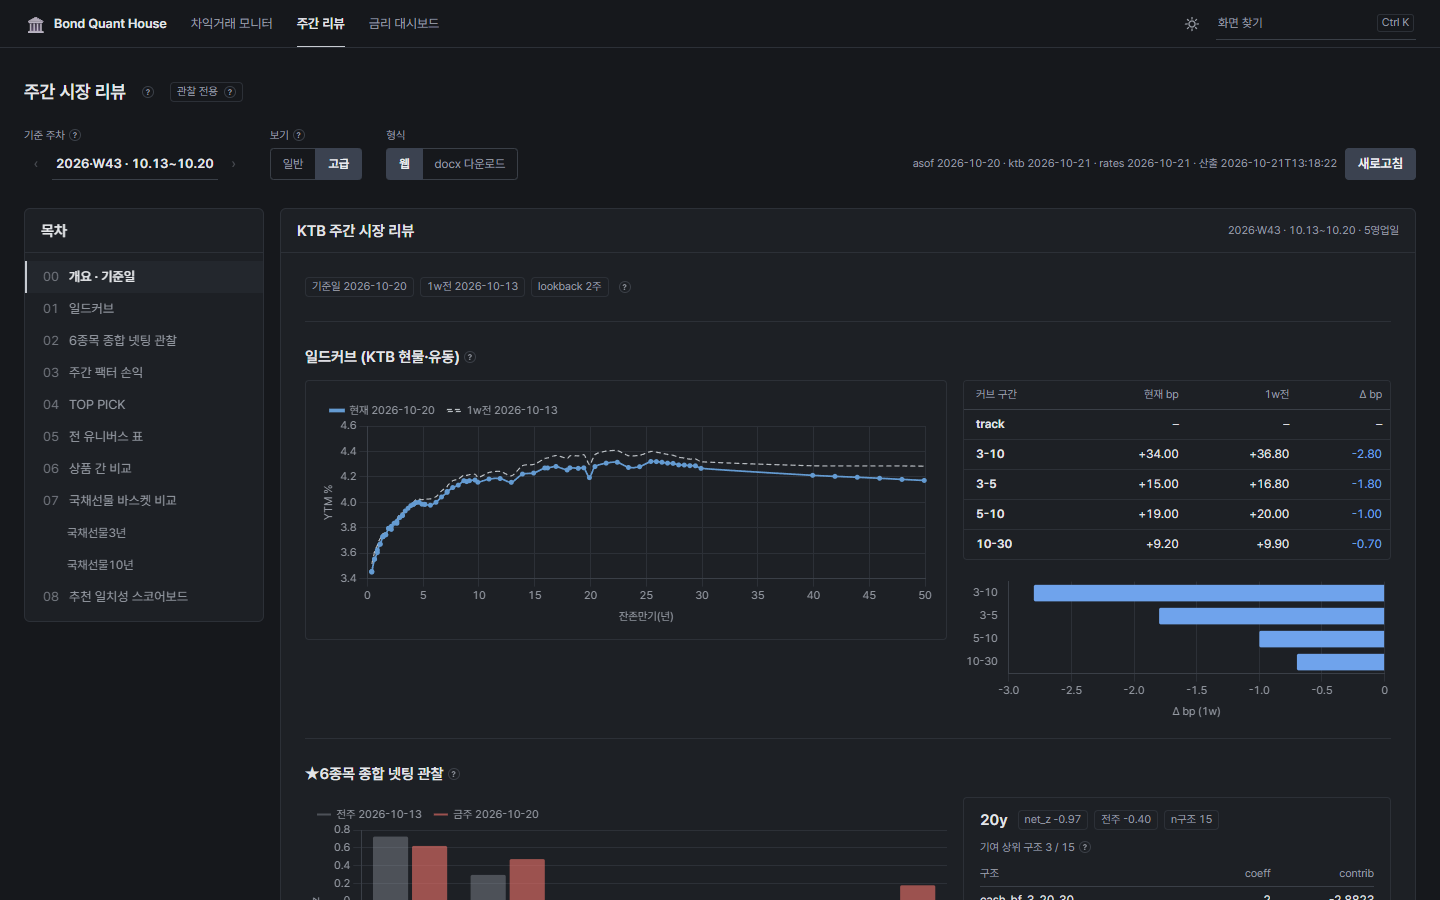
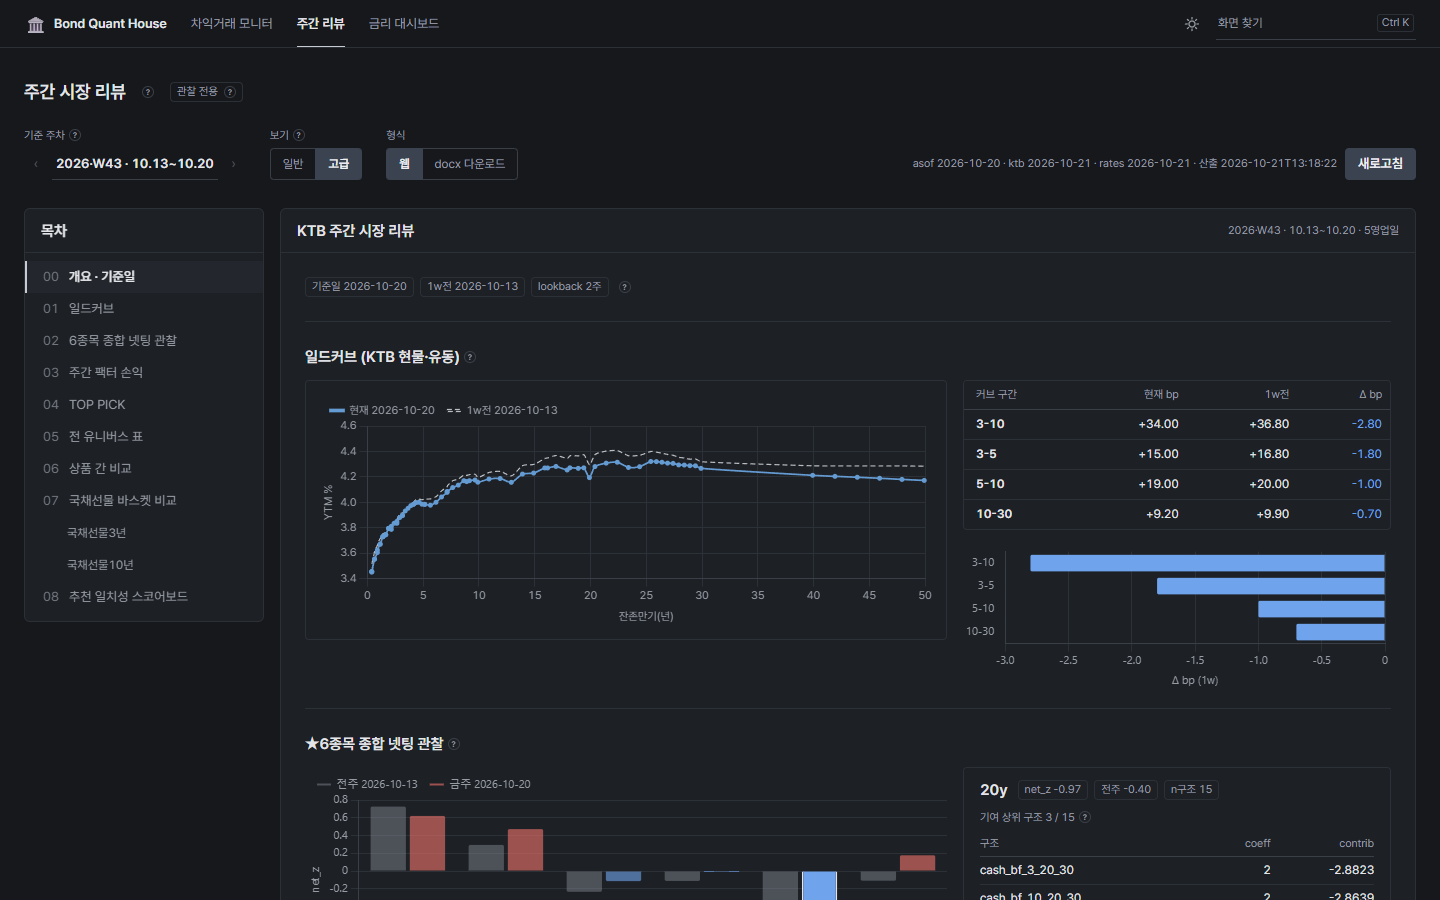
redesign-wb 4단계 보완: plain 없으면 고급 폴백(기억값 무접촉) · 고급 일드커브 표 'track' 메타 행 제거
배포 승인 조건(사용자 10-21 "수선 끝나면 배포해 (아침 자동 갱신 기다리자)") — 라이브 snapshot 은 내일 아침
daily-refresh 6c 에서 plain 이 실림. 그 전에 웹이 나가도 첫 화면이 '준비 중'이 되지 않게.

- 일반 보기 재료(plain + schema)가 없고 · 이번 세션에 사용자가 보기를 직접 고르지 않았고 · 링크가 #review/plain 이
  아니면 → 고급으로 연다. localStorage 기억값은 읽기만(덮어쓰기 0) → plain 이 실리는 로드부터 원래대로
  (기억값 또는 기본 일반) · 같은 세션 새로고침으로 plain 이 실려도 자동 복귀. 일반 버튼은 살아 있음(누르면 '준비 중').
- 고급 일드커브 표: curve_moves 의 객체(커브 구간)만 행으로 — 메타 키 track('label')이 'track – – –' 행으로
  나오던 기존 문제 제거(엔진 키 무변경).
- 검증 80/80(+C0·X1~X6·B8) · 카나리아 20종 · 캡처 plain_fallback_noplain_adv_dark_1440.png 추가 ·
  plain_empty_noplain(일반 버튼 누른 상태)·adv_dark_1440 재촬영.

diff --git a/assets/js/wb-review-plain.js b/assets/js/wb-review-plain.js
@@ -24,7 +24,8 @@
   var PLAIN_SCHEMA_MAX = 2;
   var VIEWS = { plain: 1, adv: 1 };
   var charts = [];
-  var S = { snap: null, sb: null, view: null, scatter: null, bondPts: [], bondSel: null, curveSel: 0, tenorSel: -1 };
+  var S = { snap: null, sb: null, view: null, scatter: null, bondPts: [], bondSel: null, curveSel: 0, tenorSel: -1,
+            explicit: false, autoFb: false };   // explicit = 이번 세션에 사용자가 보기를 직접 고름 · autoFb = plain 없어 고급으로 자동 전환 중
   var STATS = window.WB_REV_PLAIN_STATS = { state: 'init', charts: 0, cards: 0, stubs: 0, sparks: 0, nospark: 0, gaps: [] };
 
   // ── 작은 도구 ───────────────────────────────────────────────────────────
@@ -151,7 +152,7 @@
       var on = b.getAttribute('data-rv-set') === v;
       b.classList.toggle('is-active', on); b.setAttribute('aria-pressed', on ? 'true' : 'false');
     });
-    if (opt.store) storeView(v);
+    if (opt.store) { storeView(v); S.explicit = true; }   // 저장 = 사용자 조작(토글·빈 상태 버튼·숫자 보기)뿐
     if (opt.hash && reviewActive() && window.history && history.replaceState) {
       var want = '#review' + (v === 'adv' ? '/adv' : '');
       if (location.hash !== want) { try { history.replaceState(null, '', want); } catch (e) { /* file:// 등 */ } }
@@ -696,12 +697,26 @@
     el.hidden = !nonstd;
     el.innerHTML = nonstd ? esc(p.window_label) + helpHtml([wwNote(), '결론·그림 제목 앞 기간 = 엔진 문장 그대로']) : '';
   }
+  // ★plain 없을 때 고급으로 폴백(사용자 10-21 배포 승인 조건 — 아침 daily-refresh 6c 전 첫 화면이 '준비 중'이 되지 않게).
+  //   조건: 일반 보기 재료(plain + schema)가 없고 · 이번 세션에 사용자가 보기를 직접 고르지 않았고 · 링크가 #review/plain 이 아님.
+  //   기억값(localStorage)은 읽기만 · 쓰지 않는다 → plain 이 실리는 로드부터 원래대로(기억값 또는 기본 일반).
+  //   일반 버튼은 살아 있음(누르면 '준비 중' 빈 상태 · 그때부터는 사용자 선택이라 저장).
+  function fallback(usable) {
+    var bp = doc.getElementById('revViewPlain');
+    if (bp) { if (usable) bp.removeAttribute('title'); else bp.title = '일반 보기 재료가 아직 없음 — 누르면 준비 중 화면'; }
+    if (!S.explicit && hashView() !== 'plain') {
+      if (!usable && S.view === 'plain') { setView('adv', { scrollTop: false }); S.autoFb = true; }
+      else if (usable && S.autoFb) { S.autoFb = false; setView(hashView() || storedView() || 'plain', { scrollTop: false }); }
+    }
+    STATS.fallback = S.autoFb && S.view === 'adv';
+  }
   function render(snap, sb, err) {
     var host = doc.getElementById('revPlain'); if (!host) return;
     destroyCharts();
     S.snap = snap || null; S.sb = sb || null; S.bondSel = null; S.curveTrend = null;
     STATS.charts = 0; STATS.cards = 0; STATS.stubs = 0; STATS.bondConfHidden = 0; STATS.sparks = 0; STATS.nospark = 0; STATS.gaps = [];
     var p = snap && snap.available !== false ? snap.plain : null;
+    fallback(!err && !!(p && typeof p === 'object' && p.schema != null));
     windowBadge(p && typeof p === 'object' ? p : null);
     fillGlossary(p && typeof p === 'object' ? p : null);
     var go = '<div class="rvp-empty-act"><button type="button" class="wb-btn wb-btn--sm" data-rv-go="adv">고급 보기로</button></div>';

diff --git a/tools/quant-house/index.html b/tools/quant-house/index.html
@@ -3372,7 +3372,7 @@ function renderReview(el, r, sb){
 
   // (2) 일드커브 + 커브 1w 변화 — yield_curve/curve_moves 그대로
   const yc=r.yield_curve||{}, cm=r.curve_moves||{};
-  const cmKeys=Object.keys(cm).filter(function(k){return k!=='asof'&&k!=='week_ago_date';});
+  const cmKeys=Object.keys(cm).filter(function(k){return k!=='asof'&&k!=='week_ago_date'&&cm[k]&&typeof cm[k]==='object';});   // 커브 구간(객체)만 — 메타 키(track 등) 행 제외
   h+='<div class="cat-title">일드커브 (KTB 현물·유동) — 실선=현재 '+_esc(yc.asof||'')+' · 점선=1w전 '+_esc(yc.week_ago_date||'')+'</div>'+
     '<div class="rv-two">'+
     '<div class="qchart" style="height:260px"><canvas id="cRvYc"></canvas></div>'+

diff --git a/tools/quant-house/_review_plain_check/verify.py b/tools/quant-house/_review_plain_check/verify.py
@@ -164,10 +164,13 @@ with sync_playwright() as pw:
     before = (FX / "adv_before.txt").read_text(encoding="utf-8")
     norm = lambda s: s.replace("cheap %1y", "당일 순위")
     import difflib
-    bl, al = before.splitlines(), adv.splitlines()
+    bl, al = [x for x in before.splitlines() if not re.match(r"^track\b", x)], adv.splitlines()   # 'track – – –' 메타 행 = 의도한 제거
     diff = [d for d in difflib.unified_diff(bl, al, lineterm="", n=0) if d[:1] in "+-" and not d.startswith(("+++", "---"))]
     (FX / "adv_diff.txt").write_text("\n".join(diff), encoding="utf-8")
-    check("B1 고급 보기 줄 수 동일(사라진 줄 0)", len(bl) == len(al), (len(bl), len(al)))
+    check("B1 고급 보기 줄 수 동일(사라진 줄 0 · 'track' 메타 행 제외)", len(bl) == len(al), (len(bl), len(al)))
+    trk = pg.evaluate("[...document.querySelectorAll('#revBody .rv-two tbody tr')].map(tr => tr.children[0].textContent.trim())")
+    cm_keys = [k for k, v in snap["curve_moves"].items() if isinstance(v, dict)]
+    check("B8 고급 일드커브 표 = 커브 구간 행만('track' 등 메타 행 0)", trk == cm_keys, trk)
     CONF = ("MR단독", "모멘텀단독", "★상충(발산중)", "정렬(되돌림 정황)", "관찰")   # 고급 확신 라벨(_RV_CONF_LBL)
     minus = [d[1:] for d in diff if d.startswith("-")]
     def _ok_plus(line):   # '+' 줄 = 당일 순위 수선 줄 · 또는 '-' 줄에서 확신 라벨만 뺀 줄
@@ -192,14 +195,43 @@ with sync_playwright() as pw:
     # ── C. 빈 상태(라이브 = plain 없음) ─────────────────────────────
     mode("noplain")
     pg, errs = page(pw)
-    st = pg.evaluate("[WB_REV_PLAIN_STATS.state, document.getElementById('revPlain').innerText, document.getElementById('wbRevTocPlain').innerText, document.querySelectorAll('#revBody .cat-title').length]")
-    check("C1 plain 없음 → 일반 = '준비 중' 빈 상태", st[0] == "no-plain" and "준비 중" in st[1], st[:2])
-    check("C2 plain 없음 → 고급은 정상 렌더", st[3] > 5, st[3])
+    st = pg.evaluate("[WB_REV_PLAIN_STATS.state, document.getElementById('view-review').getAttribute('data-rv-view'), localStorage.getItem('wb-review-view'), location.hash, WB_REV_PLAIN_STATS.fallback, document.querySelectorAll('#revBody .cat-title').length, getComputedStyle(document.querySelector('.rv-doc')).display]")
+    check("C0 plain 없음 + 기억값 없음 → 기본 = 고급(폴백) · 기억값 안 씀 · 해시 그대로", st[:5] == ["no-plain", "adv", None, "#review", True] and st[6] != "none", st)
+    check("C2 plain 없음 → 고급 정상 렌더", st[5] > 5, st[5])
+    pg.click("#revViewPlain"); pg.wait_for_timeout(400)
+    st = pg.evaluate("[document.getElementById('view-review').getAttribute('data-rv-view'), document.getElementById('revPlain').innerText, localStorage.getItem('wb-review-view')]")
+    check("C1 일반 버튼 살아 있음 → '준비 중' 빈 상태 (직접 선택이라 저장)", st[0] == "plain" and "준비 중" in st[1] and st[2] == "plain", st)
     pg.click("#revPlain [data-rv-go='adv']")
     pg.wait_for_timeout(300)
     check("C3 빈 상태 '고급 보기로' 버튼 동작", pg.evaluate("document.getElementById('view-review').getAttribute('data-rv-view')") == "adv")
     check("C4 콘솔 오류·경고 0 (빈 상태)", not errs, errs)
     pg.context.browser.close()
+
+    # ── X. 폴백 × 기억값 · 링크 ───────────────────────────────────
+    def _open(m, view=None, hash_="#review"):
+        mode(m)
+        q, e = page(pw, view=view, hash_=hash_)
+        return q, e, q.evaluate("[document.getElementById('view-review').getAttribute('data-rv-view'), localStorage.getItem('wb-review-view'), WB_REV_PLAIN_STATS.state]")
+    q, e, r = _open("noplain", view="plain")
+    check("X1 기억값 '일반' + plain 없음 → 고급으로 열되 기억값은 '일반' 그대로", r[:2] == ["adv", "plain"], r)
+    q.context.browser.close()
+    q, e, r = _open("w43", view="plain")
+    check("X2 기억값 '일반' + plain 있음 → 일반(아침 갱신 뒤 바로 복귀)", r[:2] == ["plain", "plain"], r)
+    q.context.browser.close()
+    q, e, r = _open("noplain", hash_="#review/plain")
+    check("X3 링크 #review/plain(명시) + plain 없음 → 일반 '준비 중'", r[0] == "plain" and r[2] == "no-plain" and r[1] is None, r)
+    q.context.browser.close()
+    q, e, r = _open("w43", view="adv")
+    check("X4 기억값 '고급' + plain 있음 → 고급(기존 동작)", r[:2] == ["adv", "adv"], r)
+    check("X5 콘솔 오류·경고 0 (폴백 조합)", not e, e)
+    q.context.browser.close()
+    q, e, r = _open("noplain")
+    mode("w43")   # 같은 세션에서 아침 갱신(plain 실림) 뒤 새로고침 버튼
+    q.click("#view-review .wb-filterbar-end .wb-btn--primary")
+    q.wait_for_function("WB_REV_PLAIN_STATS.state === 'plain'", timeout=40000); q.wait_for_timeout(400)
+    r2 = q.evaluate("[document.getElementById('view-review').getAttribute('data-rv-view'), localStorage.getItem('wb-review-view'), WB_REV_PLAIN_STATS.fallback]")
+    check("X6 같은 세션 새로고침에 plain 실림 → 자동으로 일반 복귀(기억값 안 씀)", r[0] == "adv" and r2 == ["plain", None, False], (r, r2))
+    q.context.browser.close()
 
     # ── D. 스코어보드 plain 없음 ──────────────────────────────────
     mode("noscore")

diff --git a/tools/quant-house/_review_plain_check/canary.py b/tools/quant-house/_review_plain_check/canary.py
@@ -42,6 +42,13 @@ MUT = [
      "if (bond && BOND_CONF_KEYS[bk]) {", "if (false) {", "A5"),
     ("M17 badge_display 무시", "tools/quant-house/index.html",
      "const bDisp=isBond ? (p.badge_display!=null ? p.badge_display : st.badge_display) : null;", "const bDisp=null;", "H11"),
+    ("M18 plain 없음 폴백 제거", "assets/js/wb-review-plain.js",
+     "if (!usable && S.view === 'plain') { setView('adv', { scrollTop: false }); S.autoFb = true; }", "if (false) { }", "C0"),
+    ("M19 폴백이 기억값을 덮어씀", "assets/js/wb-review-plain.js",
+     "if (!usable && S.view === 'plain') { setView('adv', { scrollTop: false }); S.autoFb = true; }",
+     "if (!usable && S.view === 'plain') { storeView('adv'); setView('adv', { scrollTop: false }); S.autoFb = true; }", "X1"),
+    ("M20 고급 'track' 행 필터 제거", "tools/quant-house/index.html",
+     "k!=='week_ago_date'&&cm[k]&&typeof cm[k]==='object';", "k!=='week_ago_date';", "B8"),
     ("M3 일반 보기 라벨에 금지어", "assets/js/wb-review-plain.js",
      "var KICK = ['금리', '커브', '싼·비싼'];", "var KICK = ['금리', '커브', 'cheap'];", "A2"),
     ("M4 결론 문장 웹 가공", "assets/js/wb-review-plain.js",
